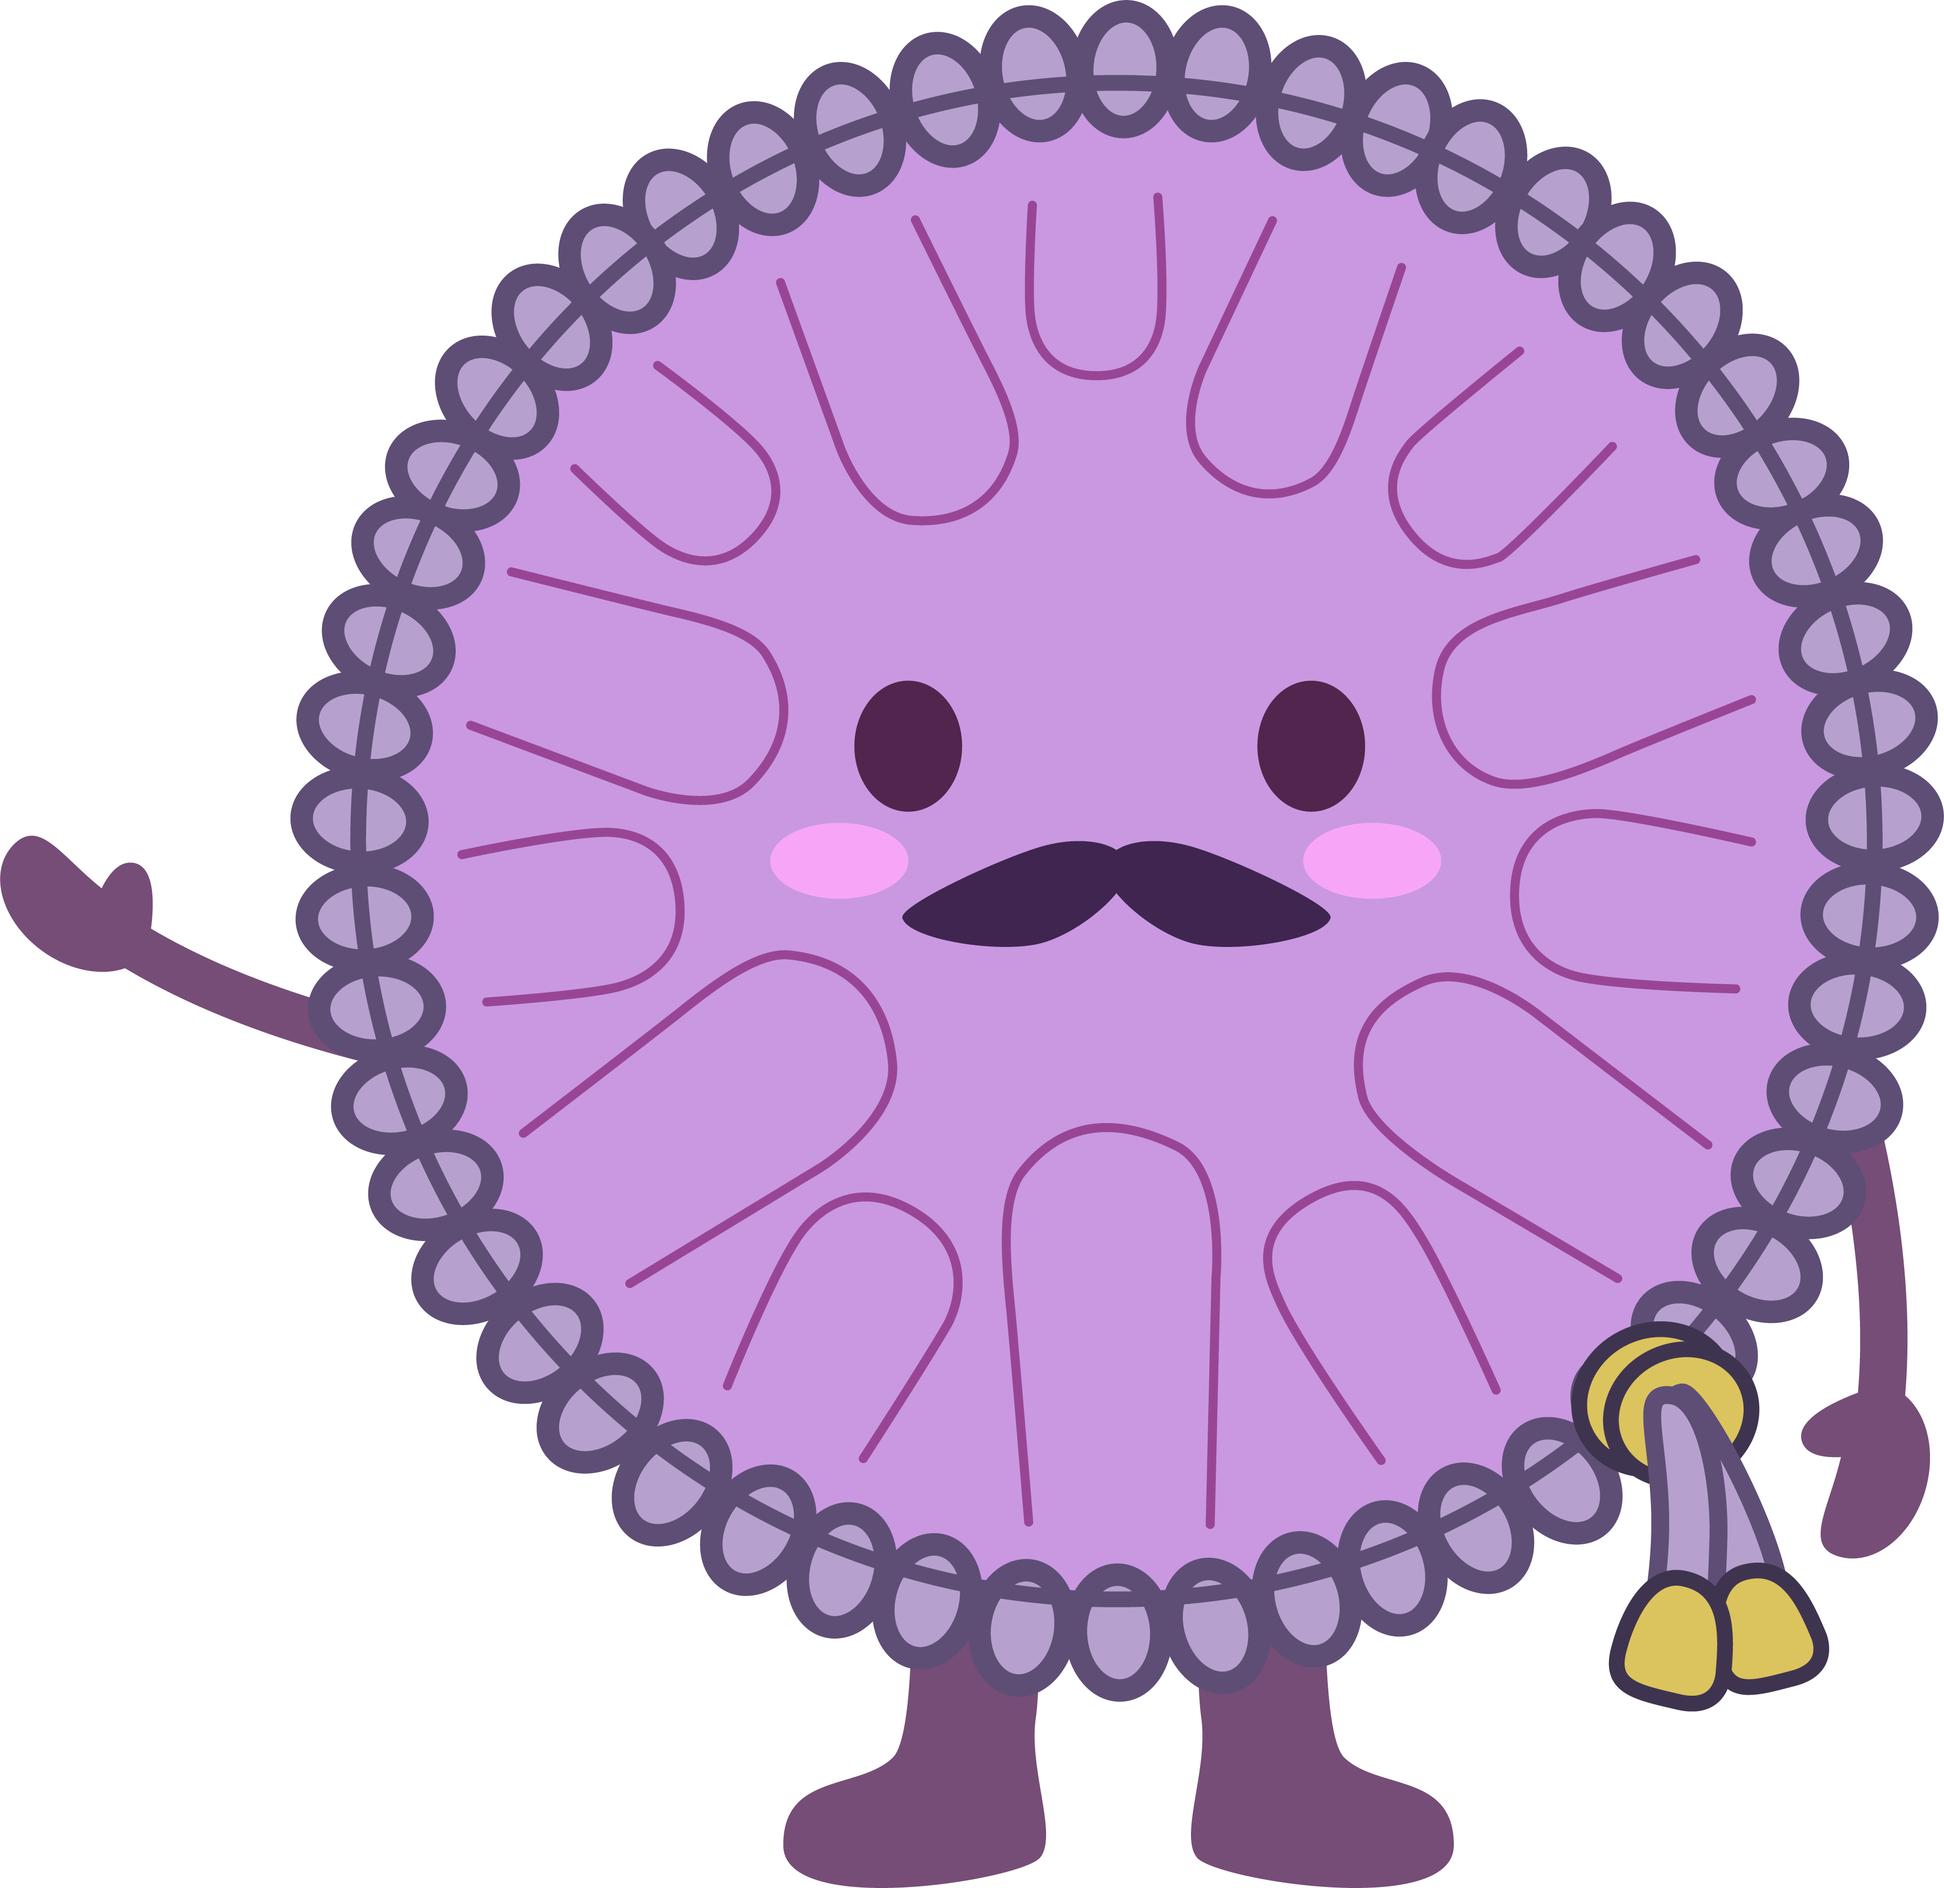
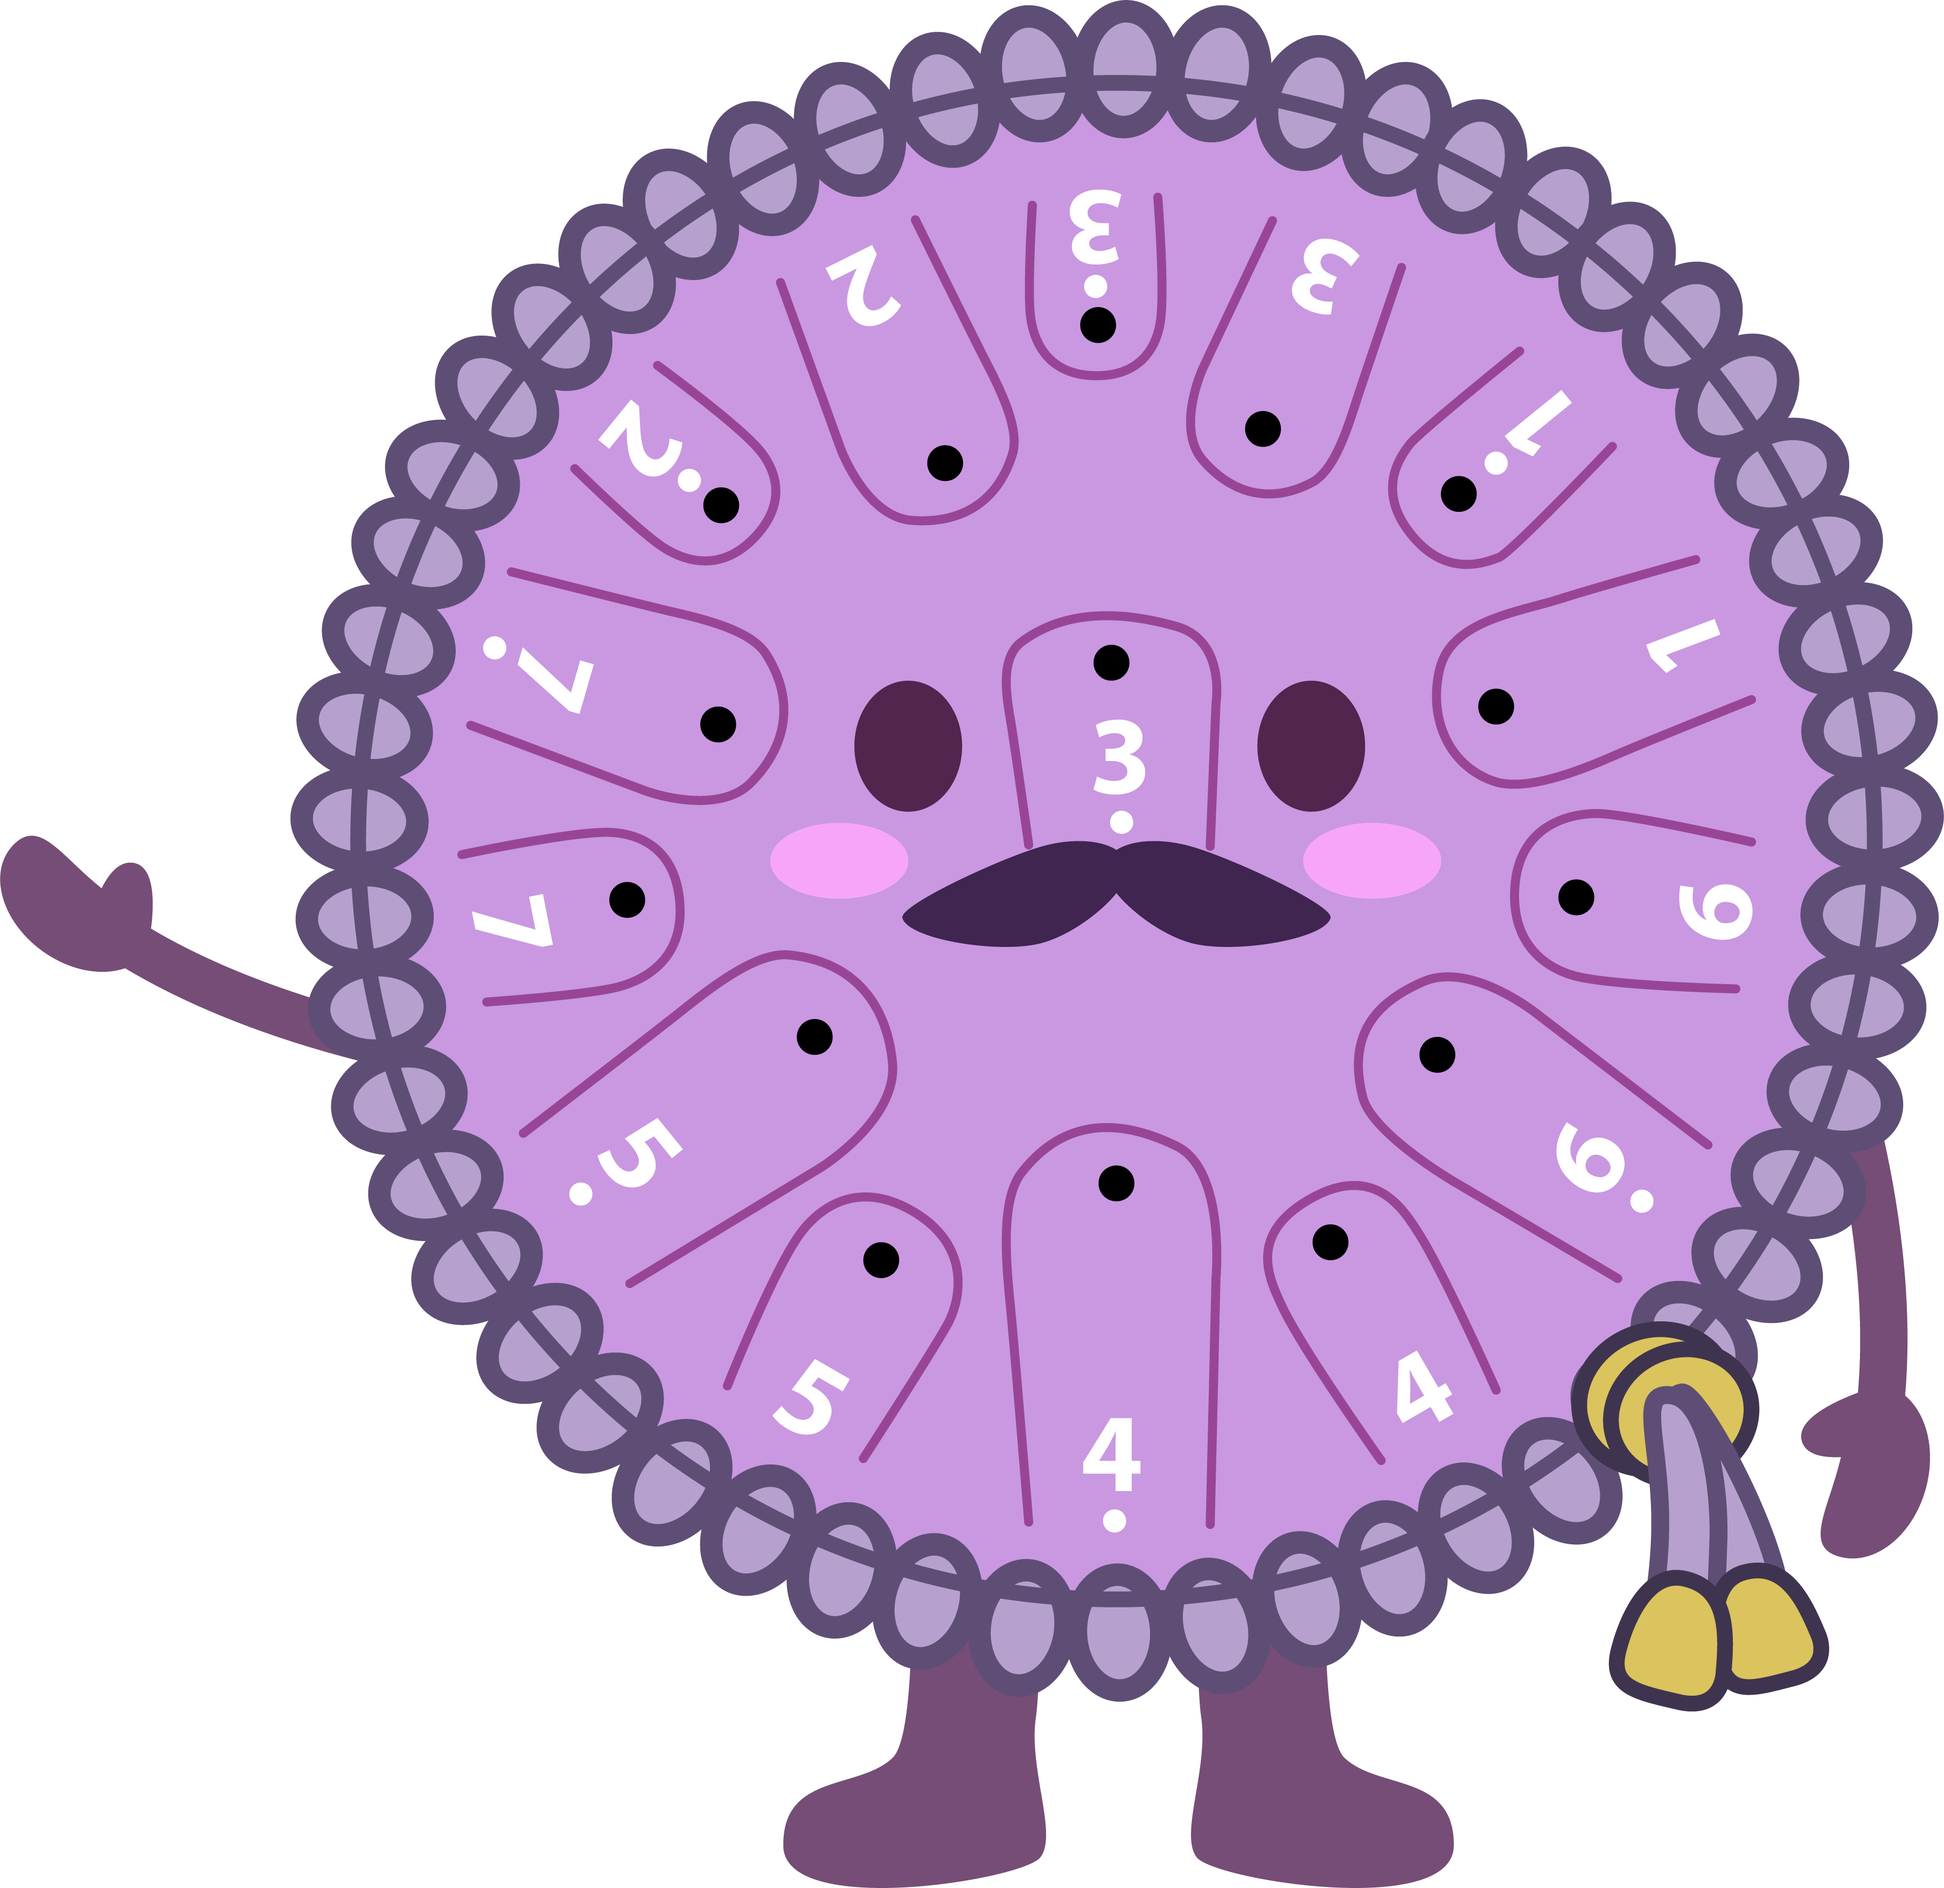
Update drum image and mole slots

diff --git a/game.js b/game.js
@@ -4,18 +4,23 @@
 
 "use strict";
 
-/* ---------- 상수: tongue 좌표 (검증된 percentage) ---------- */
+/* ---------- 상수: tongue 좌표 (검은 원 기준 percentage) ---------- */
 const TONGUE_SLOTS = [
-  { id: "top-center",        x: 46.8, y: 11.2, rx: 3.1, ry: 5.8 },
-  { id: "upper-left-inner",  x: 39.4, y: 16.9, rx: 3.1, ry: 5.8 },
-  { id: "upper-right-inner", x: 54.2, y: 18.5, rx: 3.1, ry: 5.8 },
-  { id: "left-upper",        x: 33.4, y: 26.9, rx: 3.1, ry: 5.8 },
-  { id: "right-upper",       x: 61.1, y: 30.0, rx: 3.1, ry: 5.8 },
-  { id: "left-mid",          x: 32.3, y: 46.6, rx: 3.1, ry: 5.8 },
-  { id: "right-mid",         x: 59.8, y: 46.6, rx: 3.1, ry: 5.8 },
-  { id: "lower-left",        x: 38.4, y: 56.9, rx: 3.1, ry: 5.8 },
-  { id: "lower-center",      x: 46.6, y: 61.9, rx: 3.1, ry: 5.8 },
-  { id: "lower-right",       x: 55.9, y: 63.3, rx: 3.1, ry: 5.8 },
+  { id: "top-center",          x: 56.47, y: 17.20, rx: 3.1, ry: 5.8 },
+  { id: "upper-right-inner",   x: 64.96, y: 22.71, rx: 3.1, ry: 5.8 },
+  { id: "upper-left-inner",    x: 48.61, y: 24.52, rx: 3.1, ry: 5.8 },
+  { id: "right-upper-outer",   x: 75.03, y: 26.14, rx: 3.1, ry: 5.8 },
+  { id: "left-upper-outer",    x: 37.08, y: 26.75, rx: 3.1, ry: 5.8 },
+  { id: "center-upper",        x: 57.16, y: 35.09, rx: 3.1, ry: 5.8 },
+  { id: "right-mid-inner",     x: 76.94, y: 37.42, rx: 3.1, ry: 5.8 },
+  { id: "left-mid-inner",      x: 36.92, y: 38.35, rx: 3.1, ry: 5.8 },
+  { id: "right-mid-outer",     x: 81.08, y: 47.52, rx: 3.1, ry: 5.8 },
+  { id: "left-mid-outer",      x: 32.25, y: 47.65, rx: 3.1, ry: 5.8 },
+  { id: "lower-left-inner",    x: 41.90, y: 54.90, rx: 3.1, ry: 5.8 },
+  { id: "lower-right-inner",   x: 73.92, y: 55.86, rx: 3.1, ry: 5.8 },
+  { id: "bottom-center",       x: 57.42, y: 62.66, rx: 3.1, ry: 5.8 },
+  { id: "lower-right-outer",   x: 68.43, y: 65.78, rx: 3.1, ry: 5.8 },
+  { id: "lower-left-outer",    x: 45.32, y: 66.75, rx: 3.1, ry: 5.8 },
 ];
 
 /* ---------- 상수: 게임 설정 ---------- */

diff --git a/style.css b/style.css
@@ -55,7 +55,7 @@ img { display: block; max-width: 100%; user-select: none; -webkit-user-drag: non
 .stage {
   position: relative;
   width: min(96vw, 1200px);
-  aspect-ratio: 1536 / 847;
+  aspect-ratio: 3609 / 3505;
   max-height: 80vh;
 }
 
@@ -302,6 +302,18 @@ img { display: block; max-width: 100%; user-select: none; -webkit-user-drag: non
 .hammer-cursor.visible { display: block; }
 .hammer-cursor.swinging {
   transform: translate(var(--hammer-hit-x), var(--hammer-hit-y)) rotate(36deg) scale(0.9);
+}
+
+/* ---------- Mobile Layout ---------- */
+@media (max-width: 640px) {
+  .stage {
+    width: 100vw;
+    max-height: 86svh;
+  }
+
+  #game-screen .stage {
+    max-height: calc(100svh - 88px);
+  }
 }
 
 /* ---------- Reduced motion ---------- */
